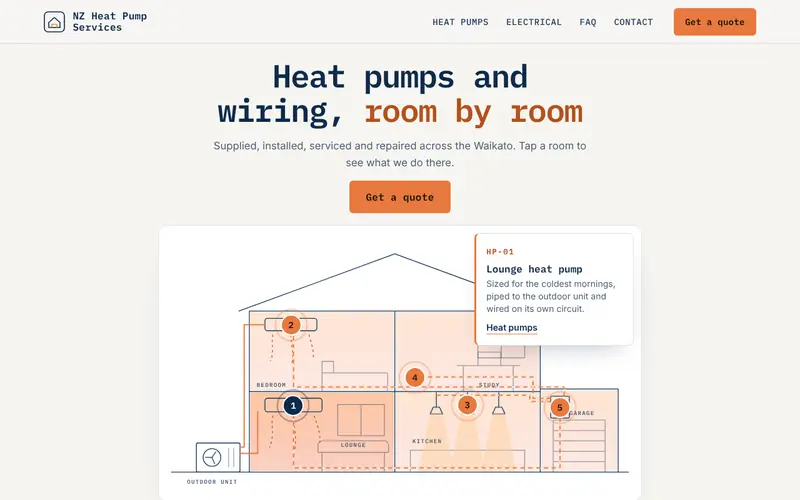
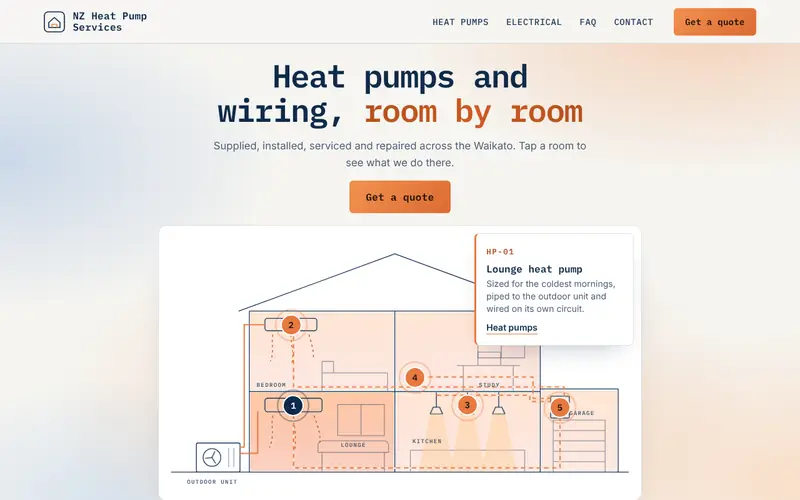
Blueprint concept: soft gradient atmosphere on the light background
Fixed copper and sky-blue radial washes behind the page, a warm glow behind the
house drawing, copper gradient on 'room by room', faint sky wash on alternate
sections, gradient buttons, warm readout panel and a deep navy gradient footer.
Static gradients only (no blur, no animation).

Claude-Session: https://claude.ai/code/session_01JyjoGFhd642tYoC75pYTfu

diff --git a/designs/03-blueprint/index.html b/designs/03-blueprint/index.html
@@ -196,6 +196,23 @@ h3{font-size:clamp(18px,1.5vw,21px);letter-spacing:-.01em;line-height:1.25}
 @media (max-width:600px){.ftr .cols{grid-template-columns:1fr 1fr}.ftr .cols>div:last-child{grid-column:1/-1}}
 .qbar{display:none}
 @media (max-width:760px){.qbar{display:flex;position:fixed;left:0;right:0;bottom:0;z-index:40;padding-bottom:env(safe-area-inset-bottom);background:var(--deep);color:#fff;border-top:1px solid var(--line);transform:translateY(110%);transition:transform .7s var(--ease)}.qbar.show{transform:none}.qbar a{flex:1;min-height:56px;display:flex;align-items:center;justify-content:center;font:600 15px var(--mono);text-decoration:none}.qbar a.go{background:var(--cu);color:var(--cu-ink)}.ftr{padding-bottom:calc(84px + env(safe-area-inset-bottom))}}
+
+/* gradient atmosphere: soft copper and sky washes, fixed behind the page (no animation, no blur) */
+body::before{content:"";position:fixed;inset:0;z-index:-1;pointer-events:none;background:
+  radial-gradient(55% 45% at 88% 4%,rgba(240,138,75,.34),transparent 70%),
+  radial-gradient(50% 44% at 0% 32%,rgba(91,141,214,.28),transparent 70%),
+  radial-gradient(55% 45% at 100% 96%,rgba(255,170,110,.3),transparent 70%),
+  radial-gradient(40% 35% at 14% 100%,rgba(120,170,230,.24),transparent 70%)}
+.hero{background:radial-gradient(ellipse 62% 52% at 50% 78%,rgba(240,138,75,.3),transparent 70%)}
+.hero h1 span{background:linear-gradient(90deg,#b4511d,#cf5a22 55%,#b4511d);-webkit-background-clip:text;background-clip:text;color:transparent}
+main>.sec:nth-of-type(odd){background:linear-gradient(180deg,rgba(255,255,255,0),rgba(140,180,230,.18) 50%,rgba(255,255,255,0))}
+.btn{background:linear-gradient(135deg,#f2914f,#dc6a32)}
+.btn.line{background:transparent}
+.out{background:radial-gradient(circle at 50% 30%,rgba(240,138,75,.16),transparent 65%)}
+.item:hover{background:linear-gradient(180deg,rgba(240,138,75,.1),rgba(240,138,75,0))}
+.cta{background:linear-gradient(180deg,rgba(255,255,255,0),rgba(240,138,75,.18) 60%,rgba(91,141,214,.12))}
+.ftr{background:linear-gradient(160deg,#0b2a4a 0%,#123c66 60%,#0e3155 100%)}
+.qbar a.go{background:linear-gradient(135deg,#f2914f,#dc6a32)}
 @media (prefers-reduced-motion:reduce){*,*::before,*::after{animation-duration:.01ms!important;animation-iteration-count:1!important;animation-delay:0s!important;transition-duration:.01ms!important;transition-delay:0s!important}}
 </style>
 <script>document.documentElement.classList.add("js")</script>
